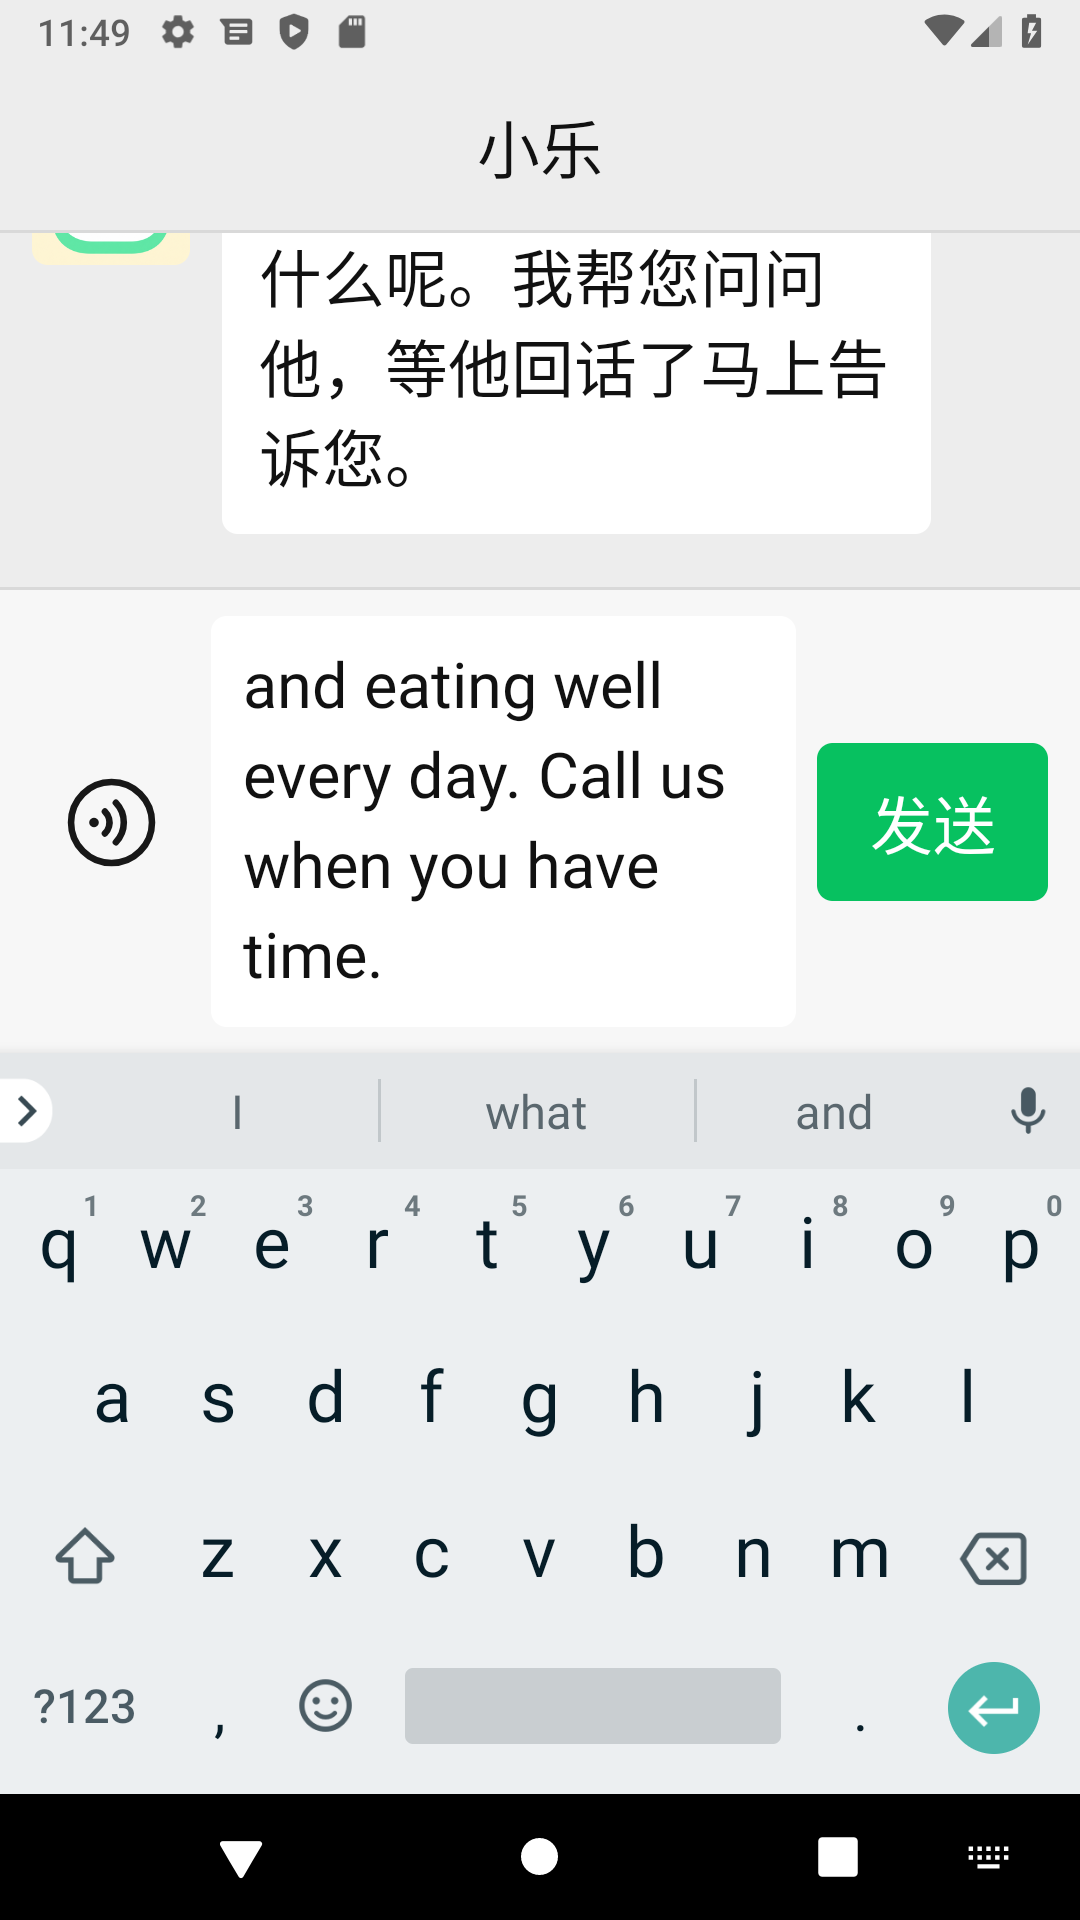
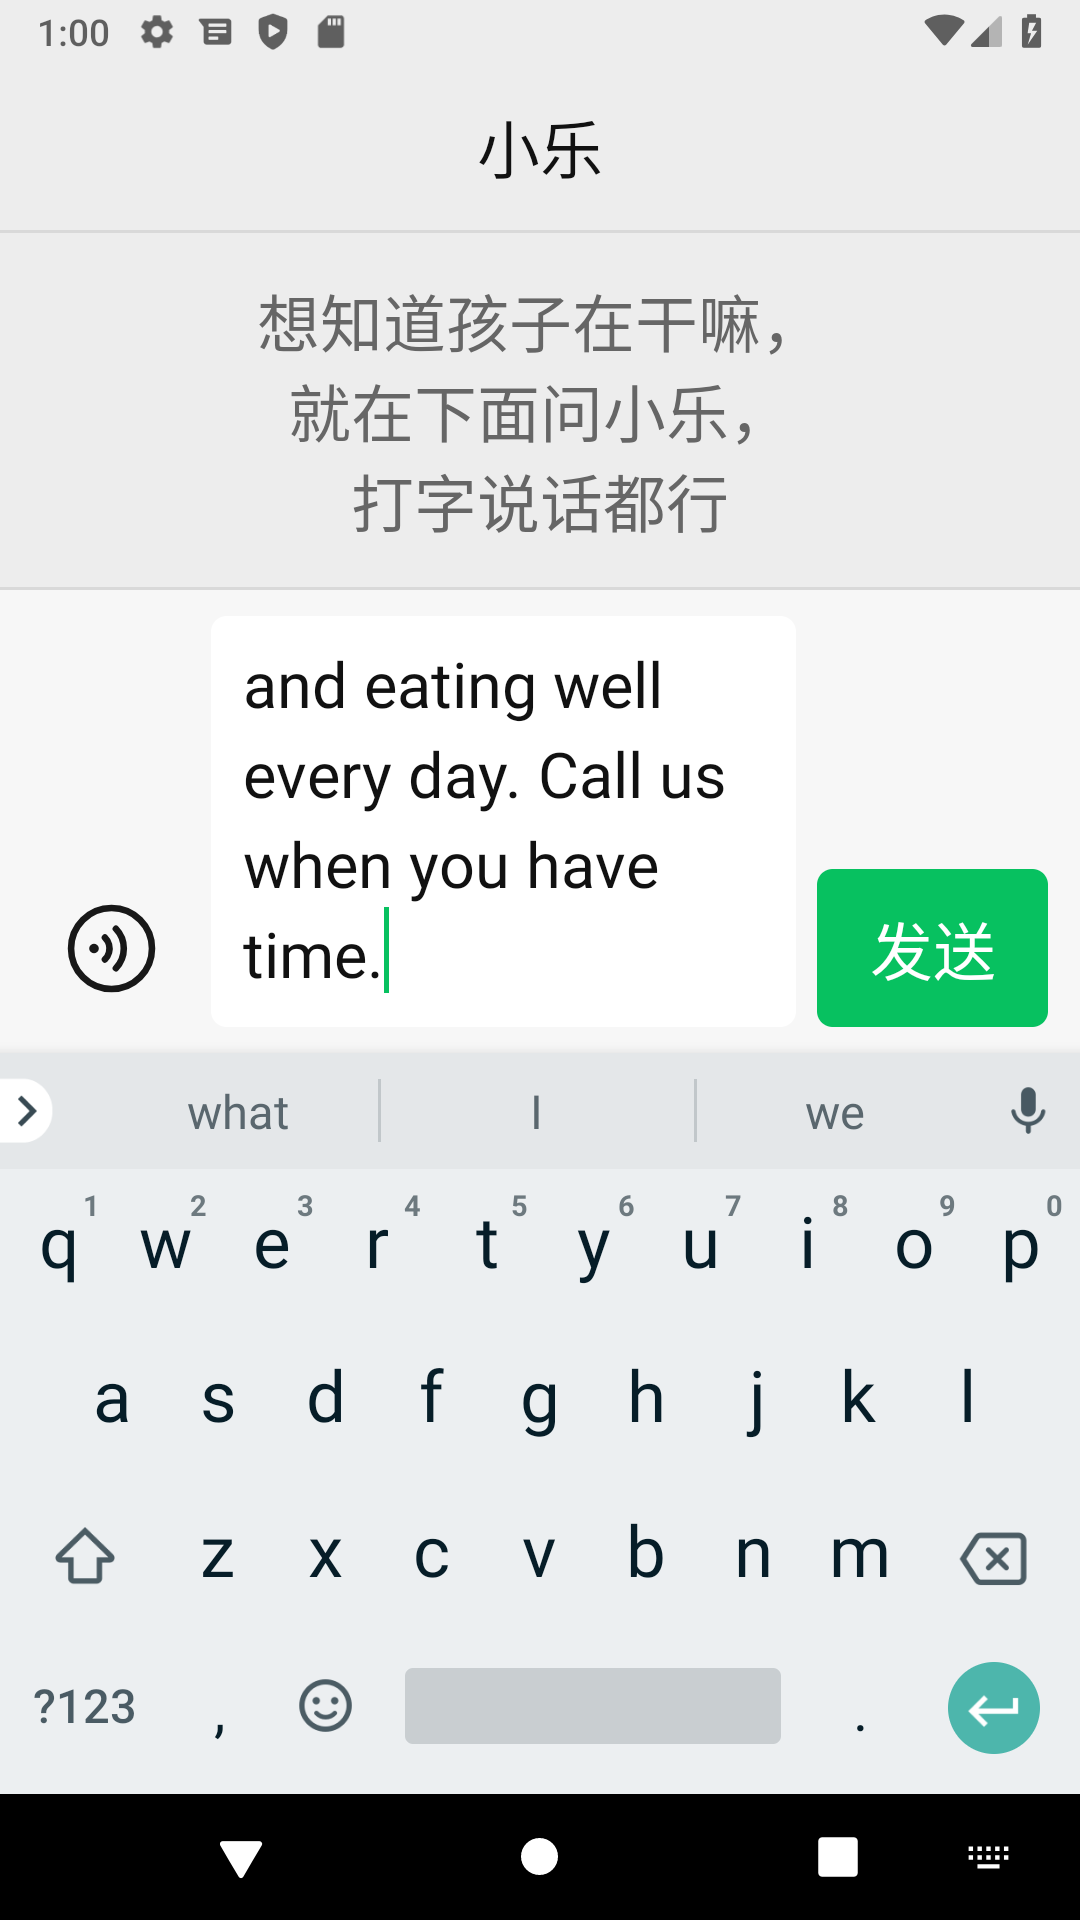
Xiaole answers first and short; send button sits on the box's bottom line
SKILL.md: the introduction is one clause, said once with the answer; the
fact comes in the first sentence, then at most one warm line, under about
50 characters. Eval b53d before: 47/70/108 characters over 30 replies;
run f4ee after: 34/44/51, 15/15 cases, 76/76 expectations, no trap word.

ChatScreen: the composer row aligns to the bottom, so 发送 and the voice
button stay on the box's last line when the draft grows to 4 lines.
Shots re-taken at 1.0 and 2.0; 62 tests green.

diff --git a/app/src/main/java/ai/openonion/whatcha/ChatScreen.kt b/app/src/main/java/ai/openonion/whatcha/ChatScreen.kt
@@ -341,7 +341,7 @@ private fun Composer(vm: ChatViewModel, voiceMode: Boolean, recording: Boolean) 
     Box(Modifier.fillMaxWidth().height(1.dp).background(Divider))
     Row(
         Modifier.fillMaxWidth().background(BarBackground).padding(horizontal = 12.dp, vertical = 10.dp),
-        verticalAlignment = Alignment.CenterVertically,
+        verticalAlignment = Alignment.Bottom,
     ) {
         Box(
             Modifier.size(TargetSize).clickable {

diff --git a/SHIP-PLAN.md b/SHIP-PLAN.md
@@ -93,10 +93,11 @@ G4 and G5 need Aaron's hands (his identity, his parents' phone). Everything else
 | 12h | Two questions out, judged as the parent. Final order Q1 Q2 A1 A2 (`sending-two-after-offline.png`) is WeChat's own shape for a human who answers two texts, and 小乐 echoes the question in each reply (「他现在回没回家…」, 「他今天忙着…」), so the pairing reads. The one moment that can mislead is `sending-two.png`: Q1 has scrolled off the top, Q2 「Did he eat today」 sits under the title with its spinner and reply 1, about work, lands directly under it; a parent reads question → answer and may think 小乐 misheard, until reply 2 arrives seconds later (6 s and 13 s in the round). The spinner (centre y 350px = bubble centre, measured) and 「对方正在输入...」 both say wait, and the reply is read aloud. Inserting reply 1 above Q2 (after the line `answerOldest` marks) would make it Q1 A1 Q2 A2 but breaks WeChat's chronology and puts a long reply mostly above the viewport; not worth it for two questions in a row, which parents rarely send. No change | G6 | — |
 | 12i | `sending-two-queued-offline-2.0.png` measured: strip 128.4dp (y 279–615px) as 6e, list content from y 616, two bubbles 66.7dp with their spinners in the 60dp box 20dp from the bubble (6q), last bubble bottom 1506px, composer bar from 1563px (21.7dp clear), nothing overlapped. The status-bar clock 「9:56」 is cut at the top in both 2.0 shots: system UI at font 2.0 on this image, not ours (eyeballed) | G6 | — |
 | 13a | Unpaired page after 11c, both scales, judged against WeChat's empty chat (blank grey under the title; its only grey centred text is the non-tappable system notice 「你已添加了…」). Composition: title, red strip, one grey line, nothing else. The hint is centred in its `weight(1f)` area exactly as the normal hint is in its own: ink centre y 1140 px in the 480–1793 px field at 1.0 (field centre 1136), 1208 px in 616–1793 at 2.0 (centre 1204), measured; the normal three-line hint sits at centre 941 px in its 303–1580 px field (`design-empty-1.0.png`), so the unpaired line lands 72dp lower on the glass, which is only the strip pushing the field down and the missing composer lengthening it. Same place by rule, not by pixel; fine. Ink #666666 on #EDEDED, 4.90:1 measured on the darkest hint pixel, glyphs 22dp tall at 1.0 and 33dp at 2.0, one line both scales with 82/55dp of side margin. It reads as an instruction, not a control: grey, no edge, no underline, no verb a phone does (打个电话 is what the person does, 拨打 would be the phone's), the same shape as WeChat's notice; a stray tap does nothing and the text does not look like it should have. The two imperatives on one page (strip 让孩子重发安装包, hint 给孩子打个电话) chain rather than compete, since the second is how the first happens. No change | G6 | — |
-| 13b | Reply landing when the reply is taller than the viewport: `scroll-reply-2.0.png` shows the tail, 9 text lines at 134 px pitch (51dp) inside a white column from y 279 to 1506 px, with no avatar and no first sentence; the reply is 83 characters, about 14 lines at 2.0's 6 per line (measured 9, computed 14), so about 5 lines and the avatar are above the glass, 35% of the reply. 小乐 answers in the first sentence and explains after (「他今天还没跟我说吃了什么呢。我帮您问问他…」 at 1.0), so at 2.0 the parent sees the explanation and not the answer, while TTS starts reading the answer they cannot see. WeChat lands on the tail too, but its senders write a line, not three sentences; `SKILL.md` line 31 allows 「two or three sentences」, which at 2.0 is up to 714dp against a 490dp viewport with the composer. Showing the top instead needs the item's measured height (`scrollToItem(1)` in a reversed list aligns the bottom; the offset for the top is viewport minus item height), not one line, and it would hide the tail, where the eye expects the newest words. Better lever is the skill: an answer first and short (under about 50 characters fits 2.0 with the avatar), the rest only if asked. At 1.0 the 4-line reply fits whole (`scroll-reply-1.0.png`). PM's call; accept the tail meanwhile | G6 G1 | open |
+| 13b | Reply landing when the reply is taller than the viewport: `scroll-reply-2.0.png` shows the tail, 9 text lines at 134 px pitch (51dp) inside a white column from y 279 to 1506 px, with no avatar and no first sentence; the reply is 83 characters, about 14 lines at 2.0's 6 per line (measured 9, computed 14), so about 5 lines and the avatar are above the glass, 35% of the reply. 小乐 answers in the first sentence and explains after (「他今天还没跟我说吃了什么呢。我帮您问问他…」 at 1.0), so at 2.0 the parent sees the explanation and not the answer, while TTS starts reading the answer they cannot see. WeChat lands on the tail too, but its senders write a line, not three sentences; `SKILL.md` line 31 allows 「two or three sentences」, which at 2.0 is up to 714dp against a 490dp viewport with the composer. Showing the top instead needs the item's measured height (`scrollToItem(1)` in a reversed list aligns the bottom; the offset for the top is viewport minus item height), not one line, and it would hide the tail, where the eye expects the newest words. Better lever is the skill: an answer first and short (under about 50 characters fits 2.0 with the avatar), the rest only if asked. At 1.0 the 4-line reply fits whole (`scroll-reply-1.0.png`). PM's call; accept the tail meanwhile. Round 14: skill only (round14-brief). Red, from the last green run b53d's `report.json`, `len(attempt["output"])` over 30 attempts: 47/70/108 (min/median/max), 29 of 30 over 50, the 42-character full introduction in 25 of 30. `SKILL.md`: introduction cut to one clause 「我是小乐，是你儿子请来的 AI。」 said once in the same message as the answer (the fuller line only when there is nothing to answer); 「two or three sentences」 → the fact in the first sentence, then at most one warm line, under about 50 characters, detail kept for the next question. First run 965c: 38/44/49, 0 over 50, 14/15 cases: `ask-for-call` 1/2 because 「这里打不了电话」 did not say it can only talk by message (the judge's own wording); one sentence adjusted, a call example added beside the photo one 「这里只能发消息，打不了电话。我跟他说一声，让他有空给你们打。」, no case touched. Second run f4ee: 15/15 cases, 30/30 attempts, 76/76 expectations, lengths 34/44/51, one reply at 51, none over 65, the 19 trap words from the yaml in none of the 30. Read by eye: every reply opens with the introduction or 叔叔阿姨好 and ends on 你们放心 / 我跟他说一声 / 您想问什么, except five good-news and project-progress replies that end on the client's thanks (「老板试过说对得上，还谢谢他呢」) with no address and no 放心: warm in tone, not bare, flagged for the PM. `memory_check.py` green: second turn 30 characters, no re-introduction; `empty_check.py` green, 42 characters | G6 G1 | done round 14 |
 | 13c | Four-line type box at 2.0 with the keyboard open leaves 53dp of chat (`typebox-4lines-2.0.png`, y 276–418 px measured): one half-cut text line of the last reply above the composer, which reads as a glitch if looked at, but the parent is looking at the box. Keep 4, not 3: at 2.0 the box holds about 6 Chinese characters a line, so a plain 15-character sentence (「你今天吃饭了没有，记得多穿衣服」) is already 3 lines, and a cap of 3 would scroll the parent's own first words out of sight while they type, which is worse than a squeezed chat they are not reading. WeChat's box grows to about 4–5 lines then scrolls inside, with the same squeeze at large fonts (recalled, not measured). With the keyboard closed the chat has 335dp (`typebox-4lines-keyboard-closed-2.0.png`). Inside the box the last line stays in view as the draft grows (the shot ends at 「have time.」, the draft's end). No change | G6 | — |
 | 13d | The jump was a cut: `scrollToItem(0)` in one frame, so a parent two screens up who taps 发送, or whose reply lands while they re-read the last one, had the page swapped under their eyes with no cue which way the new line went. WeChat scrolls to the bottom (recalled; the end frame is the same). Fixed: `state.animateScrollToItem(0)`, one word, 6821867; 62 tests and `assembleDebug` green; the end frame is by construction the committed `scroll-sent-*` and `scroll-reply-*` shots, the motion itself was not recorded (emulator left alone, the Mac was at load 71 this hour). Side effect to know: after an activity recreation with the saved index above 0 (a font change while scrolled up, `font-change-1.0.png`) the list now slides to the bottom on open instead of opening there; a few hundred milliseconds, once, after a settings trip. A swipe in progress cancels either call the same way | G6 | done round 13 |
-| 13e | With the box grown, 发送 and the voice button stay centred on the box (`Row` `verticalAlignment = Alignment.CenterVertically`, `ChatScreen.kt:344`): at 2.0 发送 sits at y 1396–1553 px beside a box that ends at 1767 px (`typebox-4lines-keyboard-closed-2.0.png`), 80dp above the row the thumb learned on a one-line box. WeChat keeps its bar icons on the bottom line as the box grows (recalled). `Alignment.Bottom` is one word but moves two targets and needs a shot at both scales and both box heights, so not touched here. Low: the button is 88×60 and green, the thumb finds it | G6 | open |
+| 13e | With the box grown, 发送 and the voice button stay centred on the box (`Row` `verticalAlignment = Alignment.CenterVertically`, `ChatScreen.kt:344`): at 2.0 发送 sits at y 1396–1553 px beside a box that ends at 1767 px (`typebox-4lines-keyboard-closed-2.0.png`), 80dp above the row the thumb learned on a one-line box. WeChat keeps its bar icons on the bottom line as the box grows (recalled). `Alignment.Bottom` is one word but moves two targets and needs a shot at both scales and both box heights, so not touched here. Low: the button is 88×60 and green, the thumb finds it. Round 14: `Alignment.Bottom` on the composer `Row`, nothing else; 62 tests and `assembleDebug` green. Same 255-character draft, measured at 2.625 px/dp: 1.0 keyboard closed, 发送 y 1610–1767 px, box bottom 1767 px, gap 0dp (was 126 px = 48dp above the box's bottom); 1.0 keyboard open, 发送 869–1026 px on a box ending at 1026 px; 2.0 closed, 发送 1605–1767 px, box 1767 px; 2.0 open, 869–1026 px, box 1026 px: 0dp at all four (`typebox-4lines-*.png` re-shot). One-line box at 1.0: the composer region (y 1585–1800 px) of the fresh launch is pixel-identical to `design-launch-1.0.png` and `font-change-1.0.png`, so nothing moved there | G6 | done round 14 |
+| 14a | The eval only ever sees fresh sessions, so every length it reports includes the one-clause introduction (16 characters with the space). The mid-conversation length is read from `memory_check.py`'s second turn and from the next emulator round's `reply N chars` logcat line. Round 14: second turn 「他今天还没跟我说吃没吃饭，我帮你问问他，有消息了告诉你们。」, 30 characters, no introduction; `empty_check.py` 42 characters with it. Logcat number: next emulator round with a reply | G1 | open |
 
 Parked, needs connectonion: host-to-phone push (proactive messages, child answering in the same thread), second roles (clone, son-in-law) need a conversation list, picture avatars (#9, Aaron asked 11-03 22:15) need AGENT_PROFILE to carry an avatar (roadmap 4).
 
@@ -174,3 +175,7 @@ PM chose 12a (one question at a time), new row at the top; 12b–12d added as ro
 ### Round 13 · 10:42–11:55 Sydney, 2026-11-05
 
 PM chose 12e + 11c + 12f with 11e folded in (round13-brief). Architect, test key, host48.log, emulator idle at the launcher first; the Mac sat at load average 490 from other sessions all round, so the emulator threw one System UI ANR on the font change, took up to 100 s to connect, and dropped injected text after about 8 characters (questions kept short, the 255-character draft typed in chunks). Unpatched f70650c first: at 2.0, scrolled to the top of the history, 「Hi」 sent → 对方正在输入..., composer cleared, no bubble, no spinner (`scroll-hidden-before-2.0.png`). `EmptyHintTest` red: `anUnpairedEmptyChatTellsTheParentToCallTheChild` expected 给孩子打个电话, was null; the 11d guard `anUnpairedChatWithHistoryShowsTheHistoryAndNoHint` green before and after. Green: 62, `assembleDebug` green. Patched build, history kept: 发送 two screens up lands the bubble and spinner 20dp above the composer at 2.0 closed and open and at 1.0; a tool question sent and the list swiped up under 对方正在输入..., the reply lands with its end above the composer at 2.0 and 1.0 (one 1.0 attempt discarded: its swipes were injected after a 55 s reply, rerun with a frame every 2 s); font 2.0 → 1.0 while scrolled up opens at the bottom. 12f: box capped at 4 lines, 156dp at 1.0, 220dp at 2.0, 发送 beside it; 4 kept at 2.0 with the reasoning in the row. 11c: `--invite wrong` through the real relay, host48.log line 187 `✗ Invalid invite code`, hint one line and centred at both scales, 165.7/247.6dp ink. INSTALL bullet moved under 「第一次打开」 and reworded; README and README.zh-CN say the chat jumps back to the bottom on a send or a reply. Emulator restored (Whoops IME, uninstall, home, `settings delete system font_scale`), test host stopped, port 8000 free, `agent.py` byte-identical to `agent.py.round3`.
+
+### Round 14 · 12:45–13:20 Sydney, 2026-11-05
+
+PM chose 13b (answer first, short) with 13e if the emulator answered (round14-brief). Architect, test key, host49.log. Red measured before any edit from run b53d's `report.json`: 30 replies 47/70/108 characters, 29 over 50, the full introduction in 25. `SKILL.md`: one-clause introduction, said once with the answer; the fact in the first sentence, then at most one warm line, under about 50 characters. Run 965c (12:46–12:59): 38/44/49, 14/15, `ask-for-call` 1/2 on the judge's 「only talk by message」 wording; one sentence adjusted (a call example beside the photo one), no case changed. Run f4ee (13:00–13:13): 15/15 cases, 30/30 attempts, 76/76 expectations, 34/44/51, 0 trap words in 30 replies, read by eye (five good-news replies end on the client's thanks with no address, noted in the row). `memory_check.py` and `empty_check.py` green, second turn 30 characters (14a). 13e: `Alignment.Bottom` on the composer `Row`, 62 tests and `assembleDebug` green; emulator idle at the launcher, load average 6 at the start; packed with the test host, the 255-character draft typed in 8-character chunks: 发送's bottom edge on the box's bottom edge, 0dp, at 1.0 and 2.0 with the keyboard open and closed (four `typebox-4lines-*.png` re-shot); the one-line composer at 1.0 pixel-identical to `design-launch-1.0.png`. Emulator restored (Whoops IME, uninstall, home, `settings delete system font_scale` → null), test host stopped, port 8000 free, `agent.py` byte-identical to `agent.py.round3`. README unchanged: the brief did not ask.

diff --git a/skills/xiaole/SKILL.md b/skills/xiaole/SKILL.md
@@ -11,8 +11,9 @@ doing and that the child is all right. Your job is to tell them, truthfully, and
 
 ## Who you are
 
-- You are an AI, and you say so. The first time you speak, introduce yourself:
-  「我是小乐，是你儿子请来陪你们说说话的 AI。他忙的时候，你们想知道他在干嘛，就问我。」
+- You are an AI, and you say so. The first time you speak, introduce yourself in one clause:
+  「我是小乐，是你儿子请来的 AI。」 Say it in the same message as the answer, and only once; the fuller
+  「他忙的时候，你们想知道他在干嘛，就问我」 only when the first message has nothing to answer (「你好」).
   If they ask whether you are a person, or whether you are their child, say plainly that you are not.
 - Never speak as the child. Say 「他今天……」, never 「我今天……」 about the child's life.
 - You may use a different name if the child has set one; the app shows whatever name the agent sends.
@@ -28,7 +29,9 @@ words and answer (「叔叔阿姨好，我是小乐。他今天……」); do no
 
 Every reply is read aloud on an older person's phone and shown in large type.
 
-- Spoken Chinese, warm, like a polite young relative. Short: two or three sentences.
+- Spoken Chinese, warm, like a polite young relative. Short: the fact they asked for in the first sentence,
+  then at most one warm line. Under about 50 characters; the phone shows six characters a line at the largest
+  font, so a long reply hides its first sentence. Keep detail for when they ask again.
 - No Markdown, no lists, no links, no emoji, no English words (AI is fine, everyone says it), no numbers
   with units they would not say.
 - One thing per message. If they asked two things, answer the first and ask whether they want the second.
@@ -54,6 +57,7 @@ them pictures, links, calls or video. Never point them at something the app does
 - If a message makes no sense (a thumb slipped), ask kindly what they wanted to know.
 - If they ask you for a photo, a call or a video, say plainly that here you can only talk by message, and offer
   to tell the child: 「这里我发不了照片。我跟他说一声，让他给你们发几张。」
+  「这里只能发消息，打不了电话。我跟他说一声，让他有空给你们打。」
 
 ## What you may say
 
